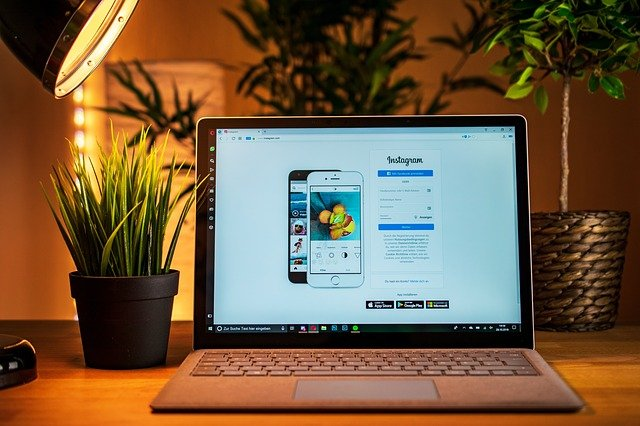
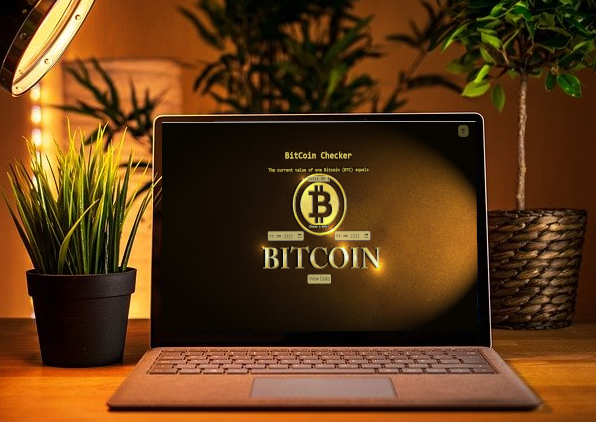
added new img, amended responsiveness for imprint

diff --git a/src/app/c-projects/c-projects.component.html b/src/app/c-projects/c-projects.component.html
@@ -7,7 +7,7 @@
                 <a href="#" target="_blank">
                     <div class="workAppsTitle1">Bitcoin-Checker</div>
                     <div class="workAppsTitleJS1">JavaScript</div>
-                    <img class="workAppsStyle borderJavaScript" src="assets/img/laptop1.jpg">
+                    <img class="workAppsStyle borderJavaScript" src="assets/img/laptop4.jpg">
                 </a>
                 <a href="https://fabiano1994.github.io/El-Pollo-Loco/" target="_blank">
                     <div class="workAppsTitle2">El Pollo Loco</div>

diff --git a/src/index.html b/src/index.html
@@ -7,7 +7,7 @@
   <base href="/">
   <meta name="viewport" content="width=device-width, initial-scale=1">
   <link rel="icon" type="image/x-icon" href="favicon.ico">
-  <link rel="stylesheet" href="assets/fonts.css">
+  <link rel="stylesheet" href="./assets/fonts.css">
   <link rel="stylesheet" href="https://unpkg.com/aos@next/dist/aos.css" />
   <link href="https://unpkg.com/aos@2.3.1/dist/aos.css" rel="stylesheet">
   <script src="https://unpkg.com/aos@next/dist/aos.js"></script>

diff --git a/src/app/f-footer/f-footer.component.scss b/src/app/f-footer/f-footer.component.scss
@@ -64,7 +64,7 @@ footer {
     cursor: default;
 
     @media (max-width: 1110px) {
-        bottom: -4965px;
+        bottom: -5490px;
         height: 792px;
         width: 93%;
     }
